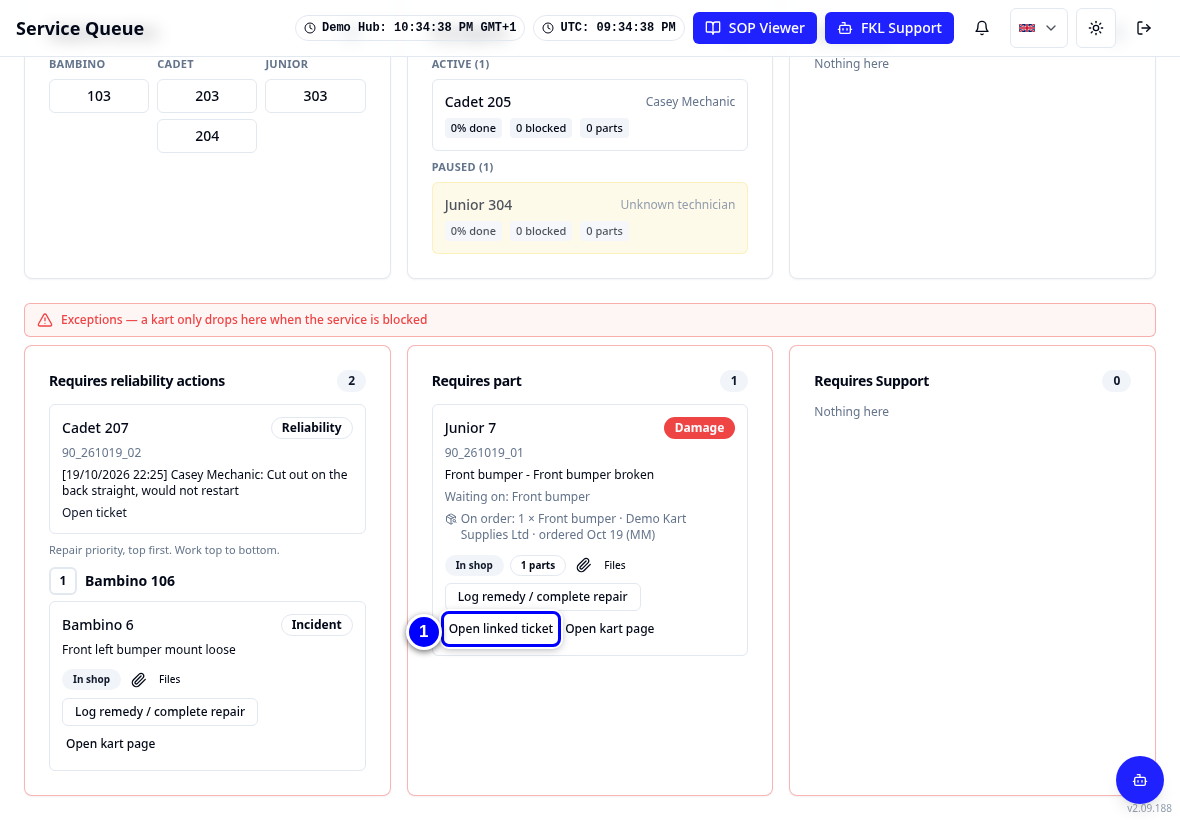
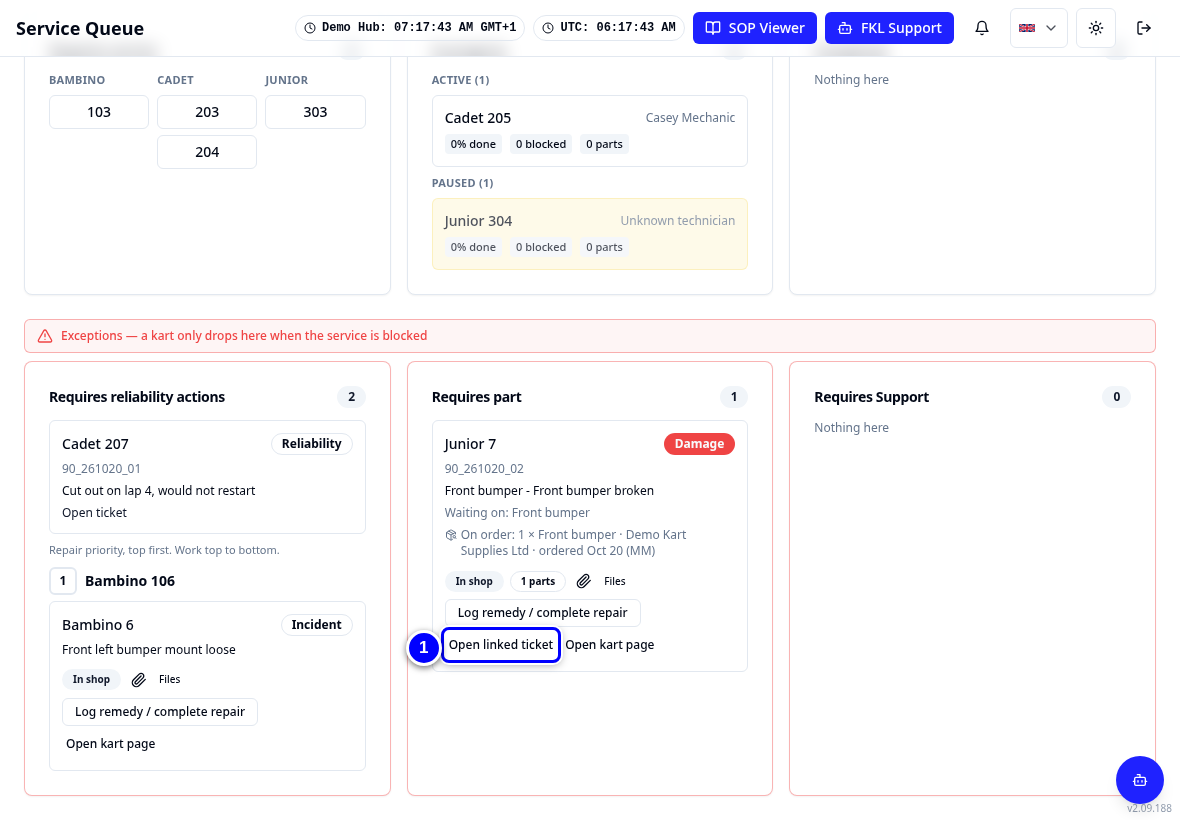
Record getting started and mechanic media (part 3: pause, schedule, comms, phone tap grid)

diff --git a/content/mechanic/reliability-ticket.md b/content/mechanic/reliability-ticket.md
@@ -134,16 +134,16 @@ captions:
 
 ## Close a ticket when the fault is fixed
 
-1. On the repair card, tap **Open linked ticket**.
+1. In the **Service Queue**, tap the kart's reliability card (it says **Open ticket**). On a card that came from an incident or damage, tap **Open linked ticket** instead.
 
     :::shot mech-ticket-linked
-    caption: Open linked ticket on the 207 repair card
+    caption: The Cadet 207 reliability card with Open ticket
     url: /workshop/repairs
-    state: Cadet 207 repair completed (Log remedy done), ticket still Ongoing
+    state: Cadet 207 with its stopping ticket still Ongoing
     steps:
       - Find the 207 card
     callouts:
-      - [1, "text=Open linked ticket", "Opens the ticket"]
+      - [1, "text=Open ticket", "Opens the ticket"]
     :::
 
 2. Change **Status** to **Resolved**.

diff --git a/content/switch-over/index.md b/content/switch-over/index.md
@@ -173,13 +173,13 @@ Print this list, or the [switch-over day card](../cards/index.md).
 7. Close any KART stopping ticket whose fault is already fixed.
 
     :::shot so-day-7-tickets
-    caption: Open linked ticket on a repair card to close a fixed ticket
+    caption: Tap a reliability card (Open ticket) to close a fixed ticket
     url: /workshop/repairs
     persona: Casey Mechanic
     steps:
       - Find the 207 card
     callouts:
-      - [1, "text=Open linked ticket", "Resolve it if fixed"]
+      - [1, "text=Open ticket", "Resolve it if fixed"]
     :::
 
 8. Carry on any open campaign in **Campaign work** and record the fitted parts on the task.

diff --git a/docs/mechanic/reliability-ticket.md b/docs/mechanic/reliability-ticket.md
@@ -57,9 +57,9 @@ You need the **Reliability** permission to raise tickets. In this guide Casey Me
 
 ## Close a ticket when the fault is fixed
 
-1. On the repair card, tap **Open linked ticket**.
+1. In the **Service Queue**, tap the kart's reliability card (it says **Open ticket**). On a card that came from an incident or damage, tap **Open linked ticket** instead.
 
-    ![Open linked ticket on the 207 repair card](../assets/img/mechanic/mech-ticket-linked.png){ loading=lazy }
+    ![The Cadet 207 reliability card with Open ticket](../assets/img/mechanic/mech-ticket-linked.png){ loading=lazy }
 
 2. Change **Status** to **Resolved**.
 

diff --git a/docs/switch-over/index.md b/docs/switch-over/index.md
@@ -105,7 +105,7 @@ Print this list, or the [switch-over day card](../cards/index.md).
 
 7. Close any KART stopping ticket whose fault is already fixed.
 
-    ![Open linked ticket on a repair card to close a fixed ticket](../assets/img/switch-over/so-day-7-tickets.png){ loading=lazy }
+    ![Tap a reliability card (Open ticket) to close a fixed ticket](../assets/img/switch-over/so-day-7-tickets.png){ loading=lazy }
 
 8. Carry on any open campaign in **Campaign work** and record the fitted parts on the task.
 
